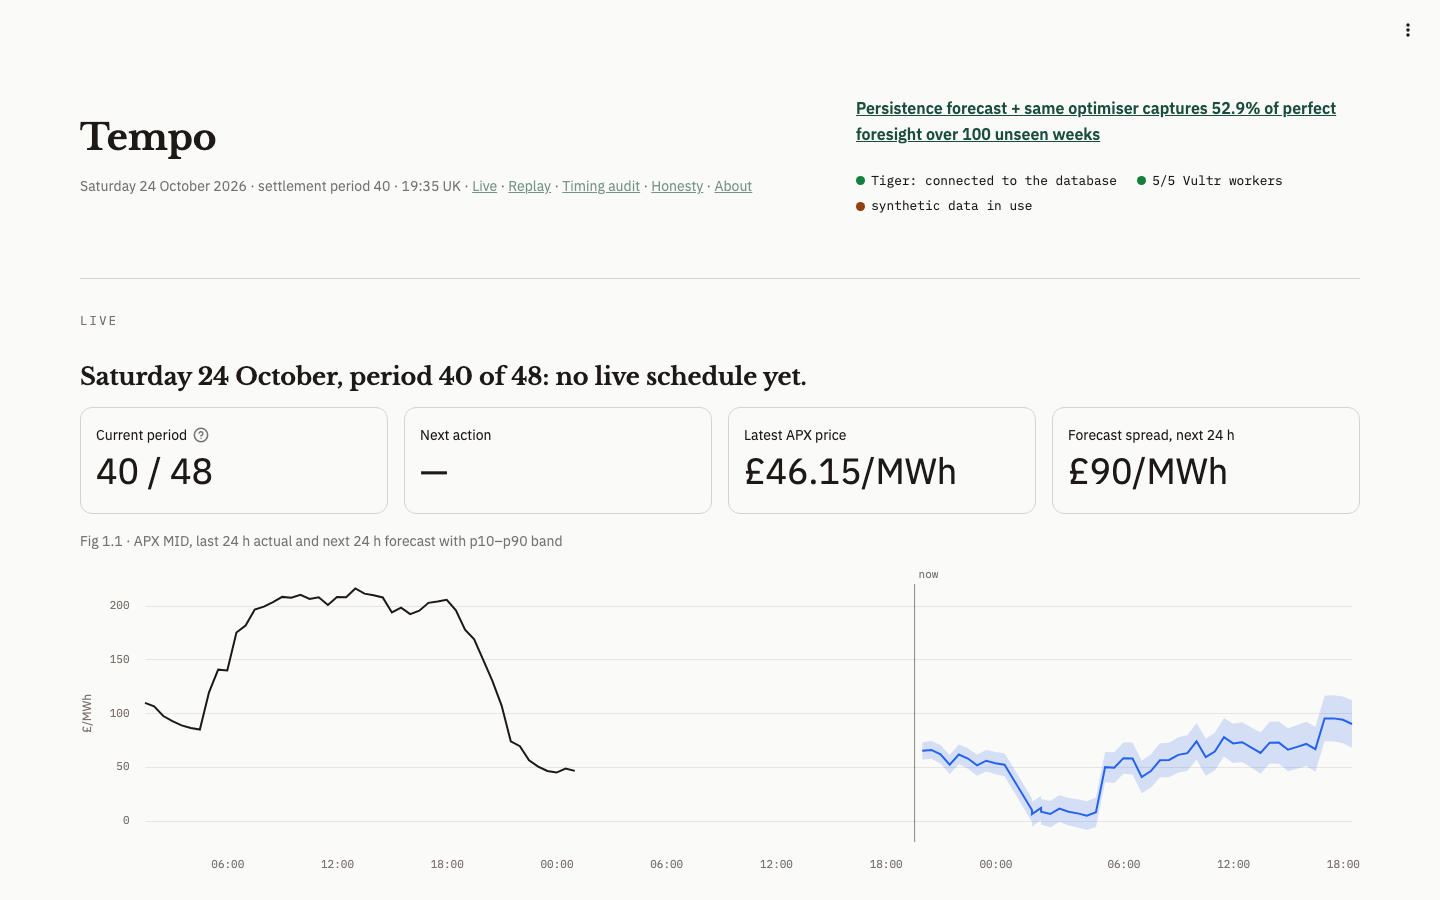
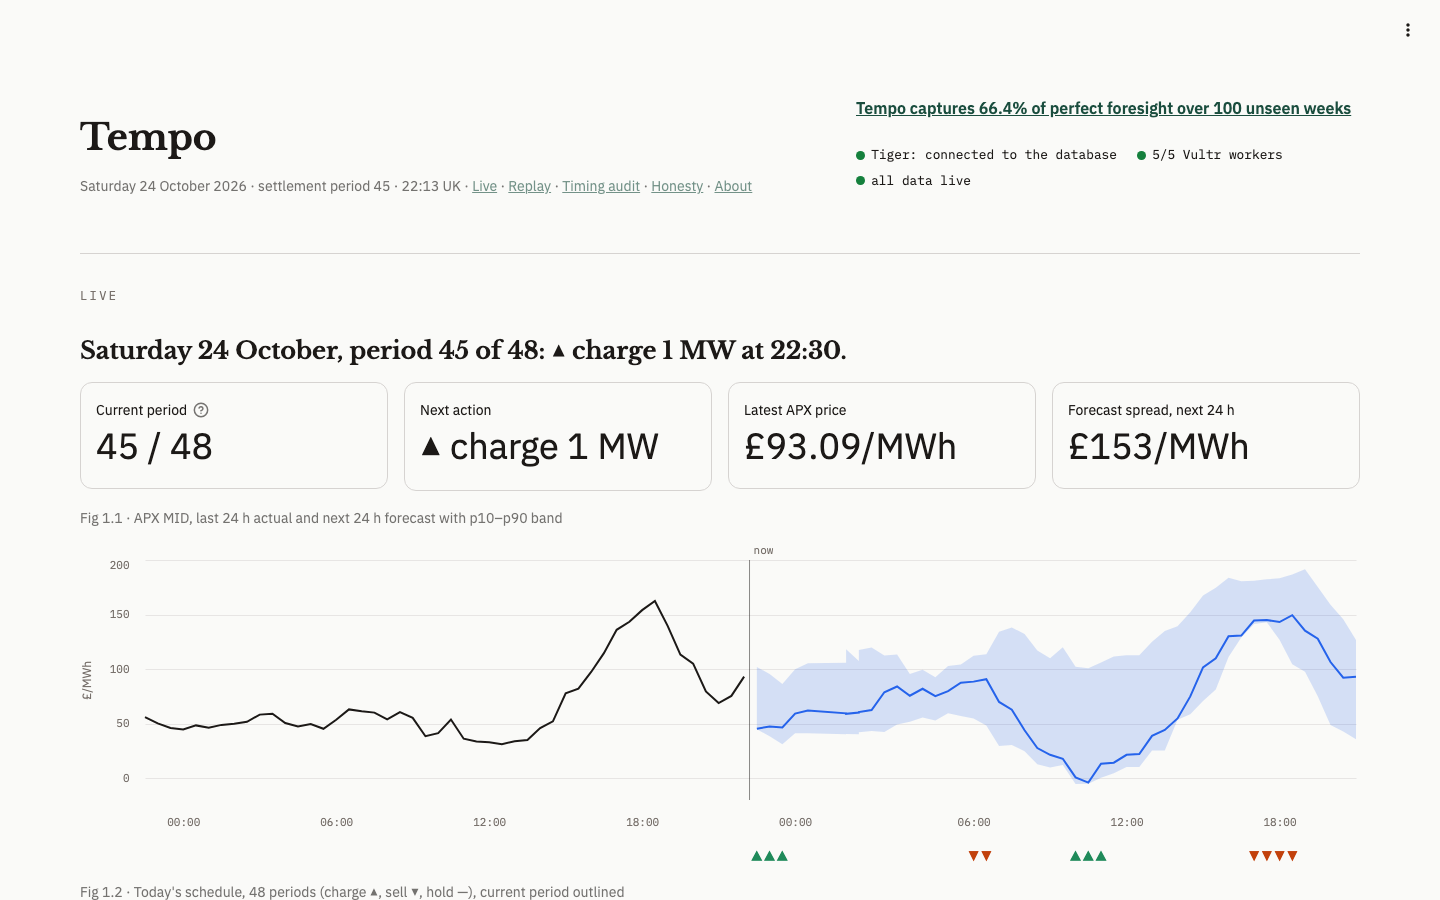
Greedy stays live, LP stays a backtest row: description.md and decider comment
Records the decision: the LP captured 68% vs greedy's 66% of perfect foresight
over 100 weeks, too small to swap the live system before the demo and in line
with the simple-first rule. Demo script gains the answer for why the LP row beats
the live row. The decider's run command is unchanged, so nothing to redeploy.

diff --git a/docs/description.md b/docs/description.md
@@ -108,6 +108,8 @@ Two versions of the optimiser:
 - **Version 1, greedy rule.** Charge in the cheapest predicted periods, discharge in the most expensive, within the capacity and rate limits. Simple, fast, and a solid fallback.
 - **Version 2, linear program.** A `cvxpy` LP that maximises expected profit over the 48-period horizon subject to every battery constraint: state-of-charge bounds, charge and discharge rate limits, efficiency losses, and degradation cost.
 
+**What runs live: the greedy rule.** Both optimisers are built, tested and in the walk-forward backtest with the same LightGBM forecast. Over 100 unseen weeks the LP captured 68% of perfect foresight and greedy 66%. Two points was not enough to swap the live decider the night before the demo, and it follows the simple-first rule we hold ourselves to: prefer the simpler method unless the complex one is clearly better. Both rows are on the honesty table so the judges can see the gap themselves. The LP is one flag away (`scripts/decide.py --optimiser lp`) and is the obvious next step with more data.
+
 Every decision, whether charge, discharge or hold, is written to a **decisions hypertable** along with its timestamp and the full forecast it was based on. That record is what the timing audit replays.
 
 ### Layer 2: Timing audit (the signature mechanic)
@@ -170,7 +172,7 @@ feature pipeline (only data available before decision time)
         │
 forecaster on Vultr  → 48-period price quantiles (p10 / p50 / p90)
         │
-battery optimiser (greedy → cvxpy LP), cost-gated: charge / discharge / hold
+battery optimiser (greedy live; cvxpy LP as a backtest row), cost-gated: charge / discharge / hold
         │
 decision + forecast + timestamp written to decisions hypertable
         │
@@ -223,7 +225,7 @@ The timing audit doesn't happen without Vultr compute provisioned on demand.
 | 35s | Live view | Current settlement period, next 24h forecast with uncertainty bands, today's schedule, and a recent hold with its reason: "expected spread didn't cover the 10% efficiency loss." |
 | 50s | Replay | Rewind to a windy week, play it forward: forecast vs reality, battery charging and selling, £ ticking up. |
 | 40s | Timing audit | Click a decision. Tiger forks the live database, five Vultr workers replay five timelines in it in parallel, side-by-side result: "an hour later would have cost £31." Then the running self-grade. While the fork spins up (~40 s), tell the challenge from section 11. |
-| 30s | Honesty panel | Backtest table, % of perfect foresight, calibration, plain statement of where it's weak. |
+| 30s | Honesty panel | Backtest table, % of perfect foresight, calibration, plain statement of where it's weak. If asked why the LP row beats the live Tempo row: "two points over a hundred weeks, simple first, it's one flag to switch." |
 | 5s | Close | "Most projects stop at a prediction. We turned it into a decision, and then proved whether we made it at the right time." |
 
 ---
@@ -246,7 +248,7 @@ Cut from the bottom if time runs out.
 
 ### Nice-to-have (cut first)
 
-7. `cvxpy` LP optimiser (greedy is an acceptable fallback).
+7. `cvxpy` LP optimiser. Built, tested, and in the backtest as the Tempo LP row (68% vs greedy's 66%). Greedy stays live, see section 3.
 8. Neural net vs LightGBM comparison, trained on a Vultr CPU worker (no GPU on this account).
 9. Battery-size sweep and regime breakdown.
 10. pgvector "similar days" lookup, finding historical days whose shape matches today's forecast.
@@ -303,7 +305,7 @@ The track rewards decisions, not just predictions. HRT's own writing on AI in tr
 
 It also follows the research habits HRT writes about publicly:
 
-- **Simple first.** Prefer the simpler model if it's as good (HRT: *ML benchmarks*). The neural net stays only if it beats LightGBM.
+- **Simple first.** Prefer the simpler model if it's as good (HRT: *ML benchmarks*). The neural net stays only if it beats LightGBM. The greedy optimiser stays live because the LP's two-point gain over 100 weeks did not justify the swap; the LP sits on the honesty table as a row, not in production.
 - **Don't fool yourself.** Low signal-to-noise domains make it easy to see edges that aren't there. We test only on unseen weeks against honest baselines.
 - **No lookahead.** Availability-time stamping on every row (HRT: *How HRT Thinks About Data*).
 
